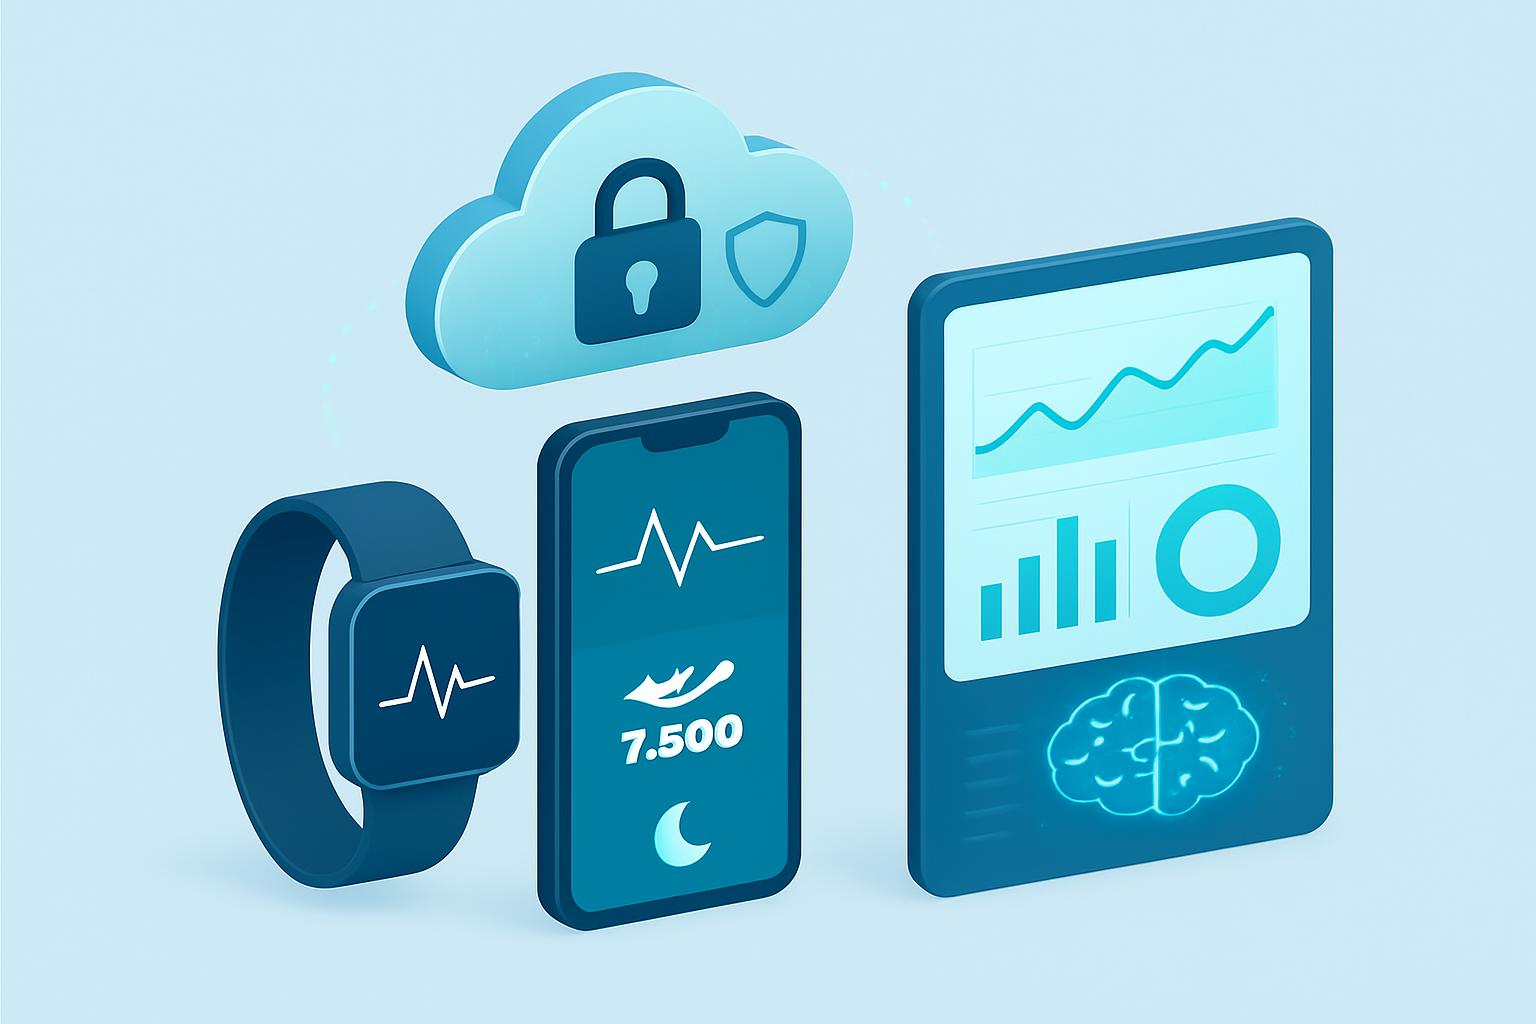
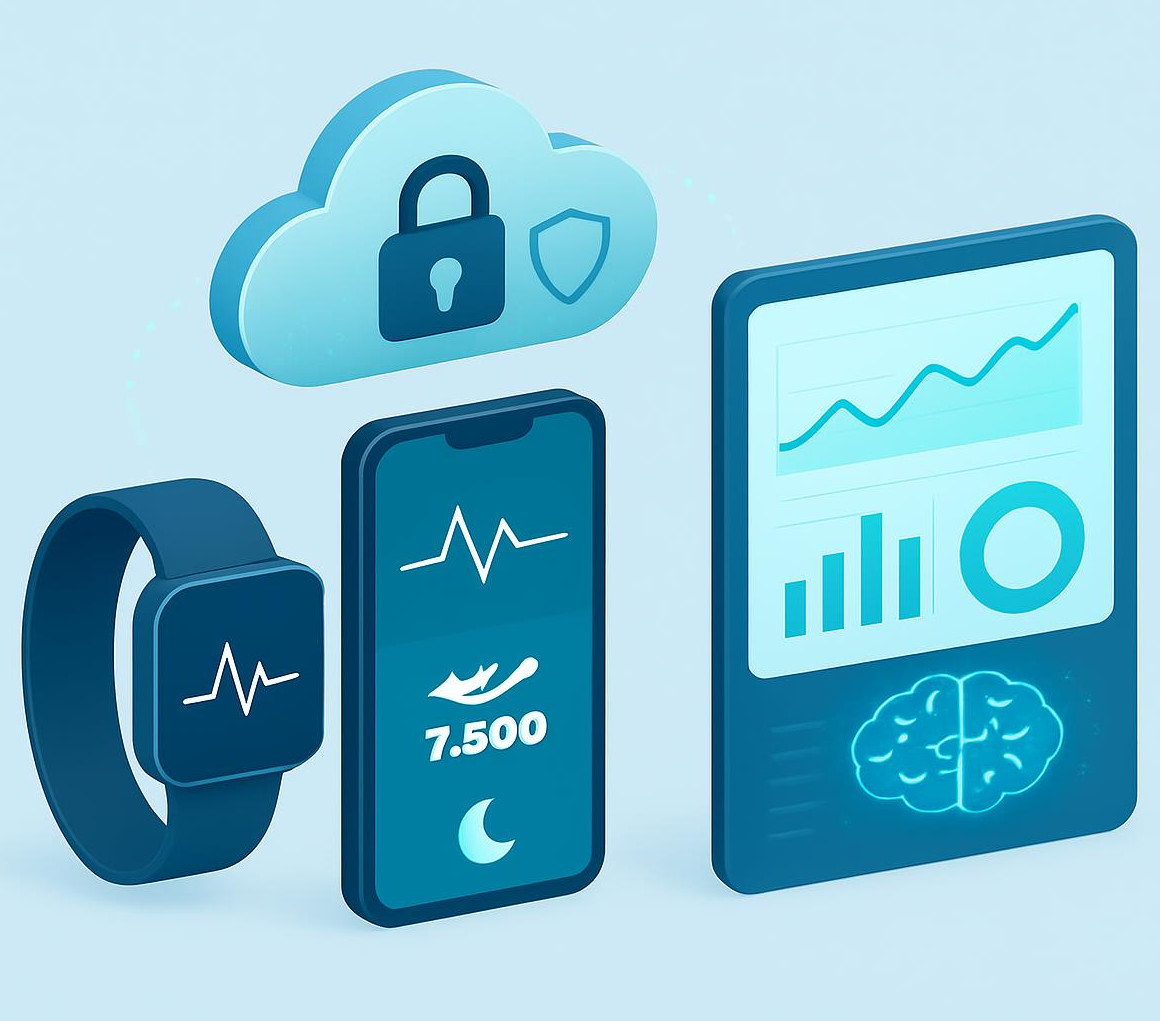
Update title and image.

diff --git a/lib/utils/create_solid_login.dart b/lib/utils/create_solid_login.dart
@@ -1,6 +1,6 @@
 /// Create Solid Login Widget.
 //
-// Time-stamp: <Saturday 2026-01-31 21:07:20 +1100 Graham Williams>
+// Time-stamp: <Wednesday 2026-02-04 08:57:31 +1100 Graham Williams>
 //
 /// Copyright (C) 2025, Software Innovation Institute, ANU
 ///
@@ -228,7 +228,7 @@ Widget _buildNormalLogin(String serverUrl) {
     builder: (context) {
       return SolidLogin(
         required: false,
-        title: 'HEALTH POD',
+        title: 'Health Pod\nManage and Query Health Docs',
         appDirectory: 'healthpod',
         webID:
             serverUrl.isNotEmpty ? serverUrl : 'https://pods.solidcommunity.au',
